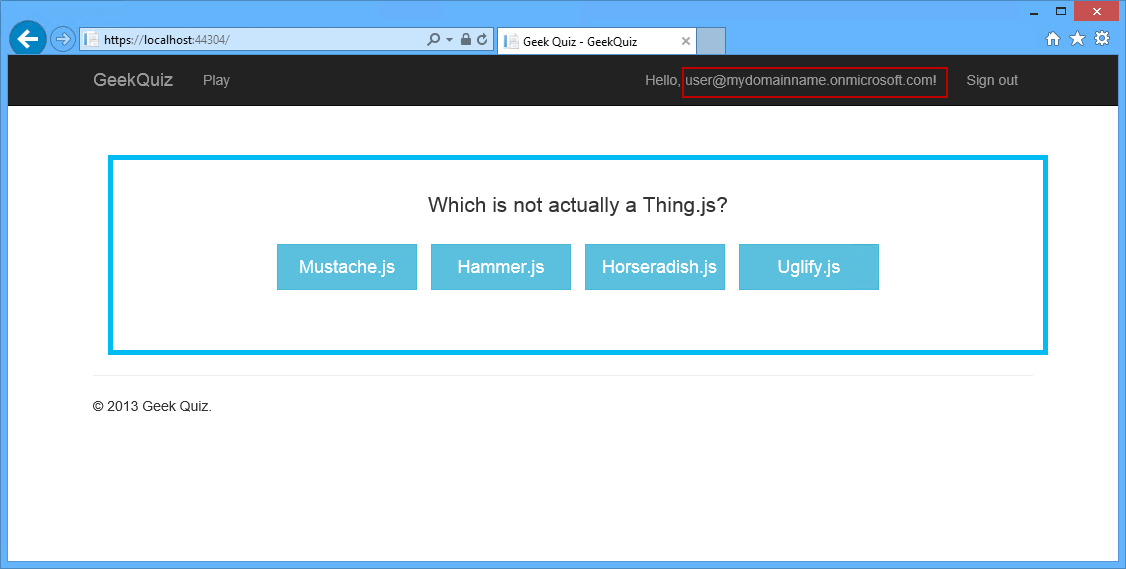
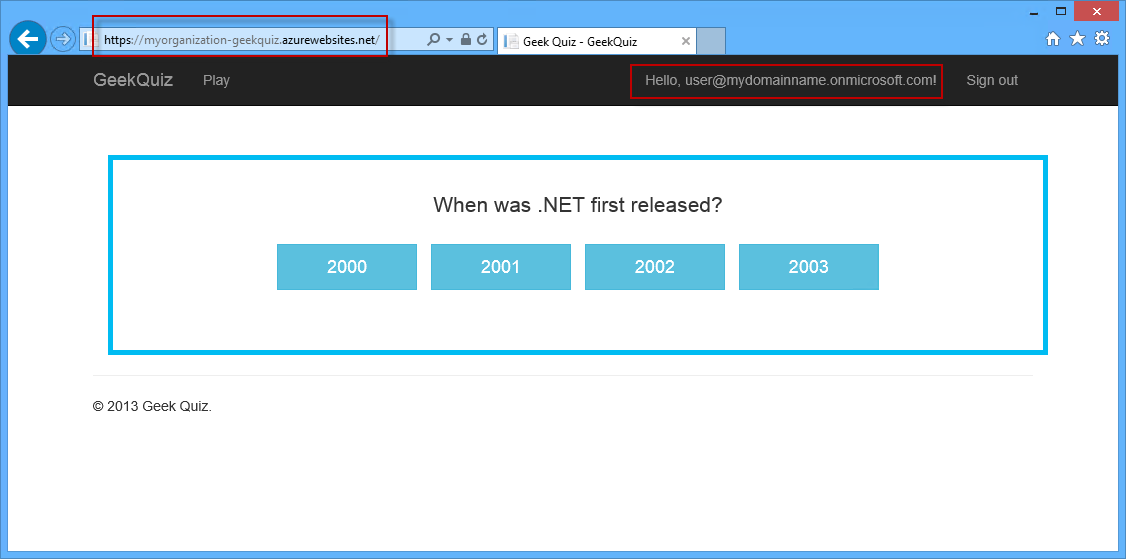
# Updated demo script

diff --git a/Demo.md b/Demo.md
@@ -33,10 +33,10 @@ Follow these steps to setup your environment for the demo.
 
 1. Follow the steps detailed in [this link](http://docs.nuget.org/docs/creating-packages/hosting-your-own-nuget-feeds) to setup local sources for the following directories:
 
-	* **C:\Program Files (x86)\Microsoft Web Tools\Packages**
-	* **C:\Program Files (x86)\Microsoft ASP.NET\ASP.NET Web Stack 5\Packages**
+	1. **C:\Program Files (x86)\Microsoft Web Tools\Packages**
+	1. **C:\Program Files (x86)\Microsoft ASP.NET\ASP.NET Web Stack 5\Packages**
 
-	![NuGet Sources](Images/nuget-sources.png?raw=true)
+	![NuGet Sources](images/nuget-sources.png?raw=true)
 
 1. Open Visual Studio 2013.
 1. Open the **GeekQuiz.sln** solution located under **source\begin**.
@@ -145,9 +145,47 @@ This demo is composed of the following segments:
 
 1. Open the **GeekQuiz.sln** solution located under **source\end-segment2**.
 
-1. **CTRL+F5** to run the web site.
+1. Right-click the **GeekQuiz** project and select **Publish…**
 
-1.	Sign in using a user account for your organization (ex. "user@mydomainname.onmicrosoft.com").
+	![Publishing the Website](images/publishing-the-site.png?raw=true "Publishing the Website")
+
+	_Publishing the Website_
+
+1. In the Publish dialog box, click **Import…**.
+
+	![Importing the publish profile](images/selecting-the-profile.png?raw=true "Importing the publish profile")
+
+	_Importing the publish profile_
+
+1. In the **Import Publish Profile** dialog select **Import from a publish profile file** and click on **Browse...** to select the previously downloaded publish profile file.
+
+	![Selecting the publish profile file](images/selecting-import-publish-profile.png?raw=true "Selecting the publish profile file")
+
+	_Selecting the publish profile file_
+
+1. Back in the **Import Publish Profile** dialog click **OK**.
+
+1. Back in the **Publish Web** dialog, click **Next >**.
+
+	![Reviewing the connection settings to deploy](images/reviewing-the-connection-settings-to-deploy.png?raw=true "Reviewing the connection settings to deploy")
+
+	_Reviewing the connection settings to deploy_
+
+1. In the settings tab, show the Organizational Authentication configuration.
+
+	![Showing the organizational authentication configuration](images/showing-the-organizational-auth-config.png?raw=true "Showing the organizational authentication configuration")
+
+	_Showing the organizational authentication configuration_
+
+1. Select the connection string for the **TriviaContext** and click **Publish** to publish the site.
+
+1. Sing in using an admin account for your organization (ex. "admin@mydomainname.onmicrosoft.com")
+
+	![Signing in with an organization admin account](images/signing-in-with-an-organization-admin-account.png?raw=true "Signing in with an organization admin account")
+
+	_Signing in with an organization admin account_
+
+1.	When the deployment is completed, sign in using a user account for your organization (ex. "user@mydomainname.onmicrosoft.com").
 
 	![Signing in using one of the organization's user account](images/logging-in-with-an-organization-user.png?raw=true "Signing in using one of the organization's user account")
 
@@ -158,6 +196,27 @@ This demo is composed of the following segments:
 	![Showing that you are logged as the organization's user](images/showing-the-geekquiz-with-waad.png?raw=true "Showing that you are logged as the organization's user")
 
 	_Showing that you are logged as the organization's user_
+
+1. Switch to the _Windows Azure Management Portal_.
+
+1. Navigate to the **Active Directory** section and select the one used for this demo.
+
+	![Selecting your active directory](images/selecting-your-active-directory.png?raw=true "Selecting your active directory")
+
+	_Selecting your active directory_
+
+
+1. Navigate to the **USERS** tab and show the users that you used for the demo.
+
+	![Showing the organization's users](images/showing-the-organization-users.png?raw=true "Showing the organization's users")
+
+	_Showing the organization's users_
+
+1. Navigate to the **APPLICATIONS** tab and show the new two applications.
+
+	![Showing the organization's applications](images/showing-the-geekquiz-application-in-the-portal.png?raw=true "Showing the organization's applications")
+
+	_Showing the organization's applications_
 
 ---
 
